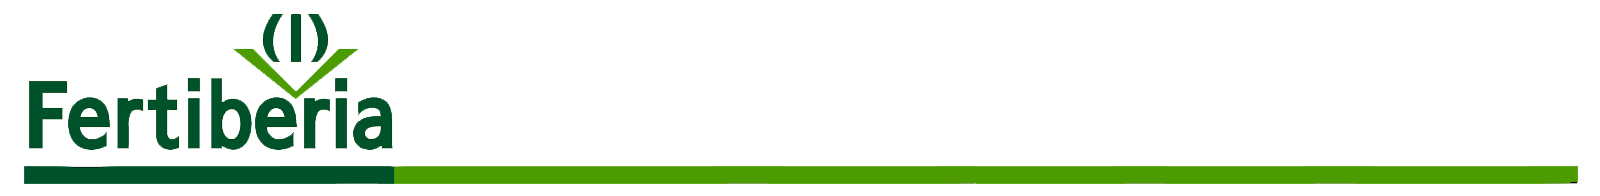
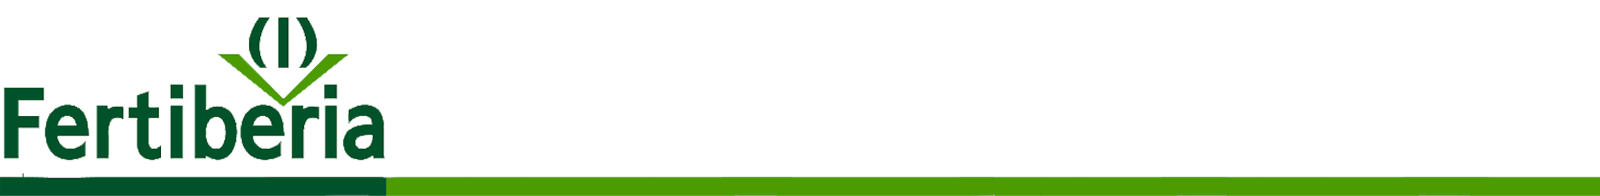
estilos

Changed region(s): [[0.0, 0.0612, 1.0, 1.0]]

diff --git a/public/css/estiloEstructuraCabPie.css b/public/css/estiloEstructuraCabPie.css
@@ -79,13 +79,9 @@ a:hover{
     color: #4C9B01;
 }
 
-#menu *{
-    margin: auto;
 
-}
-#menu form input{
-    margin: 5px;
-
+.menu{
+    margin-top: 30px;
 }
 
 

diff --git a/resources/views/admin/addElemento.blade.php b/resources/views/admin/addElemento.blade.php
@@ -41,23 +41,23 @@ Añadir Elemento
                 Advertencia: se está modificando la estructura de la aplicación, podría causar fallos inesperados, no contemplados en el desarrollo de la aplicación
             </div>
 
-            <div class="col-6"><h4>Planta:</h4> <select name="planta" class="custom-select" id="planta">
+            <div class="col-lg-6 col-sm-12"><h4>Planta:</h4> <select name="planta" class="custom-select" id="planta">
                     <?php
                     foreach ($plantas as $p) {
                         echo '<option value="' . $p->id_planta . '">' . $p->nombre . '</option>';
                     }
                     ?>
                 </select></div>
-            <div id="comp" class="col-6">
+            <div id="comp" class="col-lg-6 col-sm-12">
 <?php echo $comp; ?>
             </div>
         </div>
         <div class="row">
-            <div class="col-6"><h4>Nombre completo del elemento:</h4> <input type="text" class="form-control" name="nombreElemento" required=""></div>
-            <div class="col-6"> <h4>Identificador del elemento:</h4> <input type="text" class="form-control" name="idElem" required="" placeholder="(ej: Nitrato Total -> NiTot)"></div>
+            <div class="col-lg-6 col-sm-12"><h4>Nombre completo del elemento:</h4> <input type="text" class="form-control" name="nombreElemento" required=""></div>
+            <div class="col-lg-6 col-sm-12"> <h4>Identificador del elemento:</h4> <input type="text" class="form-control" name="idElem" required="" placeholder="(ej: Nitrato Total -> NiTot)"></div>
             <div class="col-12"> 
                 <div class="row">
-                    <div class="col-6"> <h4>Condición:</h4>
+                    <div class="col-lg-6 col-sm-12"> <h4>Condición:</h4>
                         <select name="condicion" id="condicion" class="custom-select">
                             <option selected value="null">Sin condición</option>
                             <option value=">"> Mayor que '>'</option>
@@ -65,7 +65,7 @@ Añadir Elemento
                             <option value="<>"> Entre '< >'</option>
                         </select>
                     </div>
-                    <div class="col-6">
+                    <div class="col-lg-6 col-sm-12">
                         <h4>Valor/es de la condición:</h4>
                         <input type="number" class="form-control" name="valor1" id="val1" disabled placeholder="Valor 1">
                         <input type="number" hidden class="form-control" id="val2" name="valor2" placeholder="Valor 2">
@@ -74,11 +74,11 @@ Añadir Elemento
             </div>
         </div>
         <div class="row">
-            <div class="col-6">
+            <div class="col-lg-6 col-sm-12">
                 <h4>¿En qué unidad se mide este elemento?</h4>
                 <input type="text" class="form-control" name="simbolo">
             </div>
-            <div class="col-6">
+            <div class="col-lg-6 col-sm-12">
                 <input type="submit" class="btn btn-info" name="btAddElemento" value="Aceptar">
             </div>
         </div>

diff --git a/resources/views/admin/admin.blade.php b/resources/views/admin/admin.blade.php
@@ -26,20 +26,17 @@
         <div class="container">
             <header>
                 <div class="row">
-                    <div id="estilocab" class="col-12">
+                    <div id="estilocab">
                         <a href="index"><img src="imagenes/banner.png"></a>
                     </div>
                 </div>
-                <div class="row" id="menu">
-                    <form action="admin" method="post">
+                <div  class="menu">
+                    <form action="admin" class="row" method="post">
                         {{ csrf_field() }}
-                        <div class="row">
-                            <ul><input type="submit" class="btn btn-outline-success col-12" value="Añadir planta" name="menu2"></ul>
-                            <ul><input type="submit" class="btn btn-outline-success col-12" value="Añadir compuesto" name="menu2"></ul>
-                            <ul><input type="submit" class="btn btn-outline-success col-12" value="Añadir elemento" name="menu2"></ul>
-                            <ul><input type="submit" class="btn btn-outline-success col-12" value="Validar" name="menu2"></ul>
-                            
-                        </div>
+                           <input type="submit" class="btn btn-outline-success col-lg-3 col-md-6 col-sm-12" value="Añadir planta" name="menu2">
+                           <input type="submit" class="btn btn-outline-success col-lg-3 col-md-6 col-sm-12" value="Añadir compuesto" name="menu2">
+                           <input type="submit" class="btn btn-outline-success col-lg-3 col-md-6 col-sm-12" value="Añadir elemento" name="menu2">
+                           <input type="submit" class="btn btn-outline-success col-lg-3 col-md-6 col-sm-12" value="Validar" name="menu2">
                     </form>
                 </div>
 
@@ -48,7 +45,7 @@
 
 
             @yield('pie') 
-            <footer>
+            <footer class="row">
                 <div id="estilopie" class="col-lg-12">
                     <img src="imagenes/logo.png">
                     <p id="letrapie">© 2019 Copyright: <a href="mailto:daw2@cifpvirgendegracia.com">Daw 2 2019</a></p>               

diff --git a/resources/views/admin/addComp.blade.php b/resources/views/admin/addComp.blade.php
@@ -38,7 +38,7 @@ Añadir Compuesto
             <div class="alert alert-danger col-12" role="alert">
                 Advertencia: se está modificando la estructura de la aplicación, podría causar fallos inesperados, no contemplados en el desarrollo de la aplicación
             </div>
-            <div class="col-6"><h4>Planta:</h4> 
+            <div class="col-lg-6 col-sm-12"><h4>Planta:</h4> 
                 <select name="planta" class="custom-select" id="planta">
                     <?php
                     foreach ($plantas as $p) {
@@ -47,15 +47,13 @@ Añadir Compuesto
                     ?>
                 </select>
             </div>
-            <div class="col-6"><h4>Nombre completo del compuesto:</h4> <input type="text" class="form-control" name="nombreComp" required=""></div>
+            <div class="col-lg-6 col-sm-12"><h4>Nombre completo del compuesto:</h4> <input type="text" class="form-control" name="nombreComp" required=""></div>
         </div>
         <div class="row">
-            <div class="col-6"> <h4>Identificador del compuesto:</h4> <input type="text" class="form-control" name="idComp" placeholder="(ej: Urea -> U-18)" required=""></div>
-            <div class="col-6 form-check">
-                <h4 style="margin-top: 30px">
-                    <label class="form-check-label" for="granu">Granulometría</label>
-                    <input type="checkbox" class="custom-checkbox" name="granulometria" id="granu">
-                </h4>
+            <div class="col-lg-6 col-sm-12"> <h4>Identificador del compuesto:</h4> <input type="text" class="form-control" name="idComp" placeholder="(ej: Urea -> U-18)" required=""></div>
+            <div class="col-lg-6 col-sm-12 custom-control custom-checkbox">
+                    <input type="checkbox" class="custom-control-input" name="granulometria" id="granu"> 
+                    <label class="custom-control-label" for="granu">Granulometría</label>
                 <div id="numero"></div>
             </div>
         </div>

diff --git a/resources/views/vista/elementosAnalisis.blade.php b/resources/views/vista/elementosAnalisis.blade.php
@@ -115,7 +115,7 @@ $tanques[0]->tanque;
         </div>
         <div class="row">
             <div class="col-12 table-responsive" style="padding:0; margin-top:20px">
-                <table style="width:100%" class="table-striped table-success">
+                <table style="width:100%" class="table-striped table-success text-center">
                     <?php
                     if ($tabla != null && count($tabla) > 0) {
                         //dd($tabla,$tgranu);
@@ -179,8 +179,16 @@ $tanques[0]->tanque;
                             <tr>    
                                 <?php
                                 foreach ($fila as $e => $elemento) {
+                                    $prog="SI";
+                                    $val="SI";
+                                    if ($elemento->programado == '0') {
+                                        $prog= 'NO';
+                                    }
+                                    if ($elemento->validado == '0') {
+                                        $val = 'NO';
+                                    }
                                     if ($e == 0) {
-                                        ?><td> <?php echo $elemento->fechahora ?></td><?php ?><td> <?php echo $elemento->programado ?></td><?php ?><td> <?php echo $elemento->validado ?></td><?php ?><td> <?php echo $elemento->lectura ?></td><?php
+                                        ?><td> <?php echo $elemento->fechahora ?></td><?php ?><td> <?php echo $prog ?></td><?php ?><td> <?php echo $val ?></td><?php ?><td> <?php echo $elemento->lectura ?></td><?php
                                     } else {
                                         ?><td> <?php echo $elemento->lectura ?></td><?php
                                     }

diff --git a/resources/views/laboratorio/cabeceraLaboratorio.blade.php b/resources/views/laboratorio/cabeceraLaboratorio.blade.php
@@ -26,16 +26,16 @@
         <div class="container">
             <header>
                 <div class="row">
-                    <div id="estilocab" class="col-12">
+                    <div id="estilocab" >
                         <a href="index"><img src="imagenes/banner.png"></a>
                     </div>
                 </div>
-                <div class="row" id="menu">
-                    <form action="compuestos" method="post">
+                <div class="menu">
+                    <form action="compuestos"  class="row" method="post">
                         {{ csrf_field() }}
                         <?php
                         foreach ($plantas as $p) {
-                            echo '<input type="submit" class="btn btn-outline-success" value="' . $p->nombre . '"   name="menu">';
+                            echo '<input type="submit" class="btn btn-outline-success col-lg-3 col-md-4 col-sm-12" value="' . $p->nombre . '"   name="menu">';
                         }
                         ?>
 
@@ -52,13 +52,13 @@
 
 
             @yield('pie') 
-            <footer>
-                <div id="estilopie" class="col-lg-12">
+            <footer class="row">
+                <div id="estilopie" class="col-12">
                     <img src="imagenes/logo.png">
                     <p id="letrapie">© 2019 Copyright: <a href="mailto:daw2@cifpvirgendegracia.com">Daw 2 2019</a></p>               
                 </div>
             </footer>
-
         </div>
+        
     </body>
 </html>

diff --git a/resources/views/vista/cabeceraAnalisis.blade.php b/resources/views/vista/cabeceraAnalisis.blade.php
@@ -28,16 +28,16 @@
         <div class="container">
             <header>
                 <div class="row">
-                    <div id="estilocab" class="col-lg-12">
+                    <div id="estilocab">
                         <a href="index"><img src="imagenes/banner.png"></a>
                     </div>
                 </div>
-                <div class="row" id="menu">
-                    <form action="vercompuestos" method="post">
+                <div  class="menu">
+                    <form action="vercompuestos" class="row" method="post">
                         {{ csrf_field() }}
                         <?php
                         foreach ($plantas as $p) {
-                            echo '<input type="submit" class="btn btn-outline-success" value="' . $p->nombre . '"   name="menu">';
+                            echo '<input type="submit" class="btn btn-outline-success col-lg-3 col-md-4 col-sm-12" value="' . $p->nombre . '"   name="menu">';
                         }
                         ?>
                     </form>

diff --git a/resources/views/laboratorio/elementos.blade.php b/resources/views/laboratorio/elementos.blade.php
@@ -102,7 +102,7 @@ $tanques = \Session::get('tanques');
 
             <?php if ($tanques[0]->tanque != 'Tanque1') { ?>
                 <div class="row" style="margin-top: 20px">
-                    <div class="col-4">
+                    <div class="col-lg-4 col-sm-12">
                         Muestra: <select name="tanque" class="custom-select">
                             <?php foreach ($tanques as $t) { ?>
                                 <option value="<?php echo $t->tanque ?>"> <?php echo $t->tanque ?></option>
